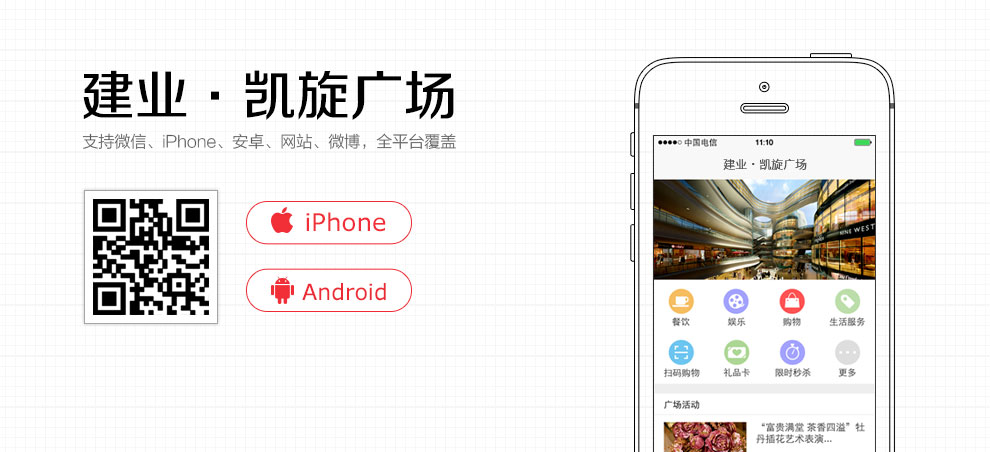
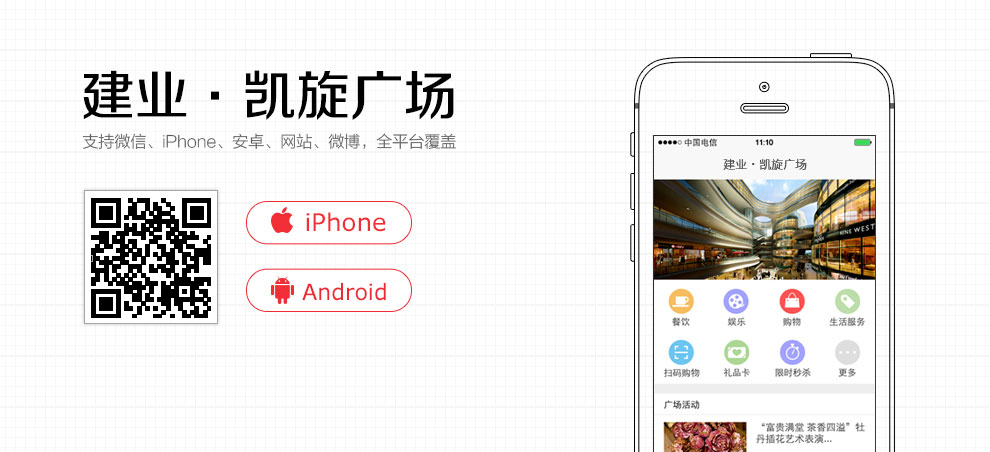
修改kaixuan文件夹下面原来的kaixuan.html，index.html文件命名
把原来的kaixuan.html文件命名改成index.html，原来的index.html文件命名改成check.html。同时更新根目录下kx_ban.jpg文件二维码。

Changed region(s): [[0.0909, 0.4336, 0.2121, 0.7124]]

diff --git a/kaixuan/index.html b/kaixuan/index.html
@@ -1,60 +1,19 @@
 <!DOCTYPE html PUBLIC "-//W3C//DTD XHTML 1.0 Transitional//EN" "http://www.w3.org/TR/xhtml1/DTD/xhtml1-transitional.dtd">
-<html xmlns="http://www.w3.org/1999/xhtml" xml:lang="en" lang="en">
+<html xmlns="http://www.w3.org/1999/xhtml">
 <head>
-	<meta http-equiv="Content-Type" content="text/html; charset=utf-8" />
-	<meta name="language" content="en" />
+<meta http-equiv="Content-Type" content="text/html; charset=utf-8" />
+<title>建业·凯旋广场</title>
+<link type="text/css" href="../css/css.css" rel="stylesheet" />
+<style>
+body{ background:url(../images/bgs.jpg) repeat; text-align:center; margin-top:106px;}
 
-	<meta content="width=device-width, initial-scale=1.0, maximum-scale=1.0, user-scalable=0;" name="viewport" />
-	<meta content="yes" name="apple-mobile-web-app-capable" />
-	<meta content="black" name="apple-mobile-web-app-status-bar-style" />
-	<meta content="telephone=no" name="format-detection" />
-
-
-	<link rel="stylesheet" type="text/css" href="mobile_mall.css" />
-	<link rel="stylesheet" href="http://cdn.staticfile.org/font-awesome/4.0.3/css/font-awesome.min.css"> 
-
-	<title></title>
-	<script type="text/javascript">
-		var browser={
-			versions:function(){
-				var u = navigator.userAgent, app = navigator.appVersion;
-				return { //移动终端浏览器版本信息
-					trident: u.indexOf('Trident') > -1, //IE内核
-					presto: u.indexOf('Presto') > -1, //opera内核
-					webKit: u.indexOf('AppleWebKit') > -1, //苹果、谷歌内核
-					gecko: u.indexOf('Gecko') > -1 && u.indexOf('KHTML') == -1, //火狐内核
-					mobile: !!u.match(/AppleWebKit.*Mobile.*/), //是否为移动终端
-					ios: !!u.match(/\(i[^;]+;( U;)? CPU.+Mac OS X/), //ios终端
-					android: u.indexOf('Android') > -1 || u.indexOf('Linux') > -1, //android终端或uc浏览器
-					iPhone: u.indexOf('iPhone') > -1 , //是否为iPhone或者QQHD浏览器
-					iPad: u.indexOf('iPad') > -1, //是否iPad
-					webApp: u.indexOf('Safari') == -1 //是否web应该程序，没有头部与底部
-				};
-			}(),
-			language:(navigator.browserLanguage || navigator.language).toLowerCase()
-		}
-
-		if (true == browser.versions.iPhone || true == browser.versions.iPad) {
-			window.location.href="iPhone.html";
-		}else {
-			window.location.href="android.html";
-		} 
-		// document.writeln("语言版本: "+browser.language);
-		// document.writeln(" 是否为移动终端: "+browser.versions.mobile);
-		// document.writeln(" ios终端: "+browser.versions.ios);
-		// document.writeln(" android终端: "+browser.versions.android);
-		// document.writeln(" 是否为iPhone: "+browser.versions.iPhone);
-		// document.writeln(" 是否iPad: "+browser.versions.iPad);
-		// document.writeln(navigator.userAgent);
-</script>
+</style>
 </head>
 
 <body>
 
-<div class="container" id="page">
-
-
-</div><!-- page -->
+<img src="../images/kx_ban.jpg"  />
+<div class="footers">Copyright © 2012 Sungeo Inc. </br>曦光云腾科技 版权所有</div>
 
 </body>
 </html>

diff --git a/kaixuan/check.html b/kaixuan/check.html
@@ -1,0 +1,60 @@
+<!DOCTYPE html PUBLIC "-//W3C//DTD XHTML 1.0 Transitional//EN" "http://www.w3.org/TR/xhtml1/DTD/xhtml1-transitional.dtd">
+<html xmlns="http://www.w3.org/1999/xhtml" xml:lang="en" lang="en">
+<head>
+	<meta http-equiv="Content-Type" content="text/html; charset=utf-8" />
+	<meta name="language" content="en" />
+
+	<meta content="width=device-width, initial-scale=1.0, maximum-scale=1.0, user-scalable=0;" name="viewport" />
+	<meta content="yes" name="apple-mobile-web-app-capable" />
+	<meta content="black" name="apple-mobile-web-app-status-bar-style" />
+	<meta content="telephone=no" name="format-detection" />
+
+
+	<link rel="stylesheet" type="text/css" href="mobile_mall.css" />
+	<link rel="stylesheet" href="http://cdn.staticfile.org/font-awesome/4.0.3/css/font-awesome.min.css"> 
+
+	<title></title>
+	<script type="text/javascript">
+		var browser={
+			versions:function(){
+				var u = navigator.userAgent, app = navigator.appVersion;
+				return { //移动终端浏览器版本信息
+					trident: u.indexOf('Trident') > -1, //IE内核
+					presto: u.indexOf('Presto') > -1, //opera内核
+					webKit: u.indexOf('AppleWebKit') > -1, //苹果、谷歌内核
+					gecko: u.indexOf('Gecko') > -1 && u.indexOf('KHTML') == -1, //火狐内核
+					mobile: !!u.match(/AppleWebKit.*Mobile.*/), //是否为移动终端
+					ios: !!u.match(/\(i[^;]+;( U;)? CPU.+Mac OS X/), //ios终端
+					android: u.indexOf('Android') > -1 || u.indexOf('Linux') > -1, //android终端或uc浏览器
+					iPhone: u.indexOf('iPhone') > -1 , //是否为iPhone或者QQHD浏览器
+					iPad: u.indexOf('iPad') > -1, //是否iPad
+					webApp: u.indexOf('Safari') == -1 //是否web应该程序，没有头部与底部
+				};
+			}(),
+			language:(navigator.browserLanguage || navigator.language).toLowerCase()
+		}
+
+		if (true == browser.versions.iPhone || true == browser.versions.iPad) {
+			window.location.href="iPhone.html";
+		}else {
+			window.location.href="android.html";
+		} 
+		// document.writeln("语言版本: "+browser.language);
+		// document.writeln(" 是否为移动终端: "+browser.versions.mobile);
+		// document.writeln(" ios终端: "+browser.versions.ios);
+		// document.writeln(" android终端: "+browser.versions.android);
+		// document.writeln(" 是否为iPhone: "+browser.versions.iPhone);
+		// document.writeln(" 是否iPad: "+browser.versions.iPad);
+		// document.writeln(navigator.userAgent);
+</script>
+</head>
+
+<body>
+
+<div class="container" id="page">
+
+
+</div><!-- page -->
+
+</body>
+</html>
